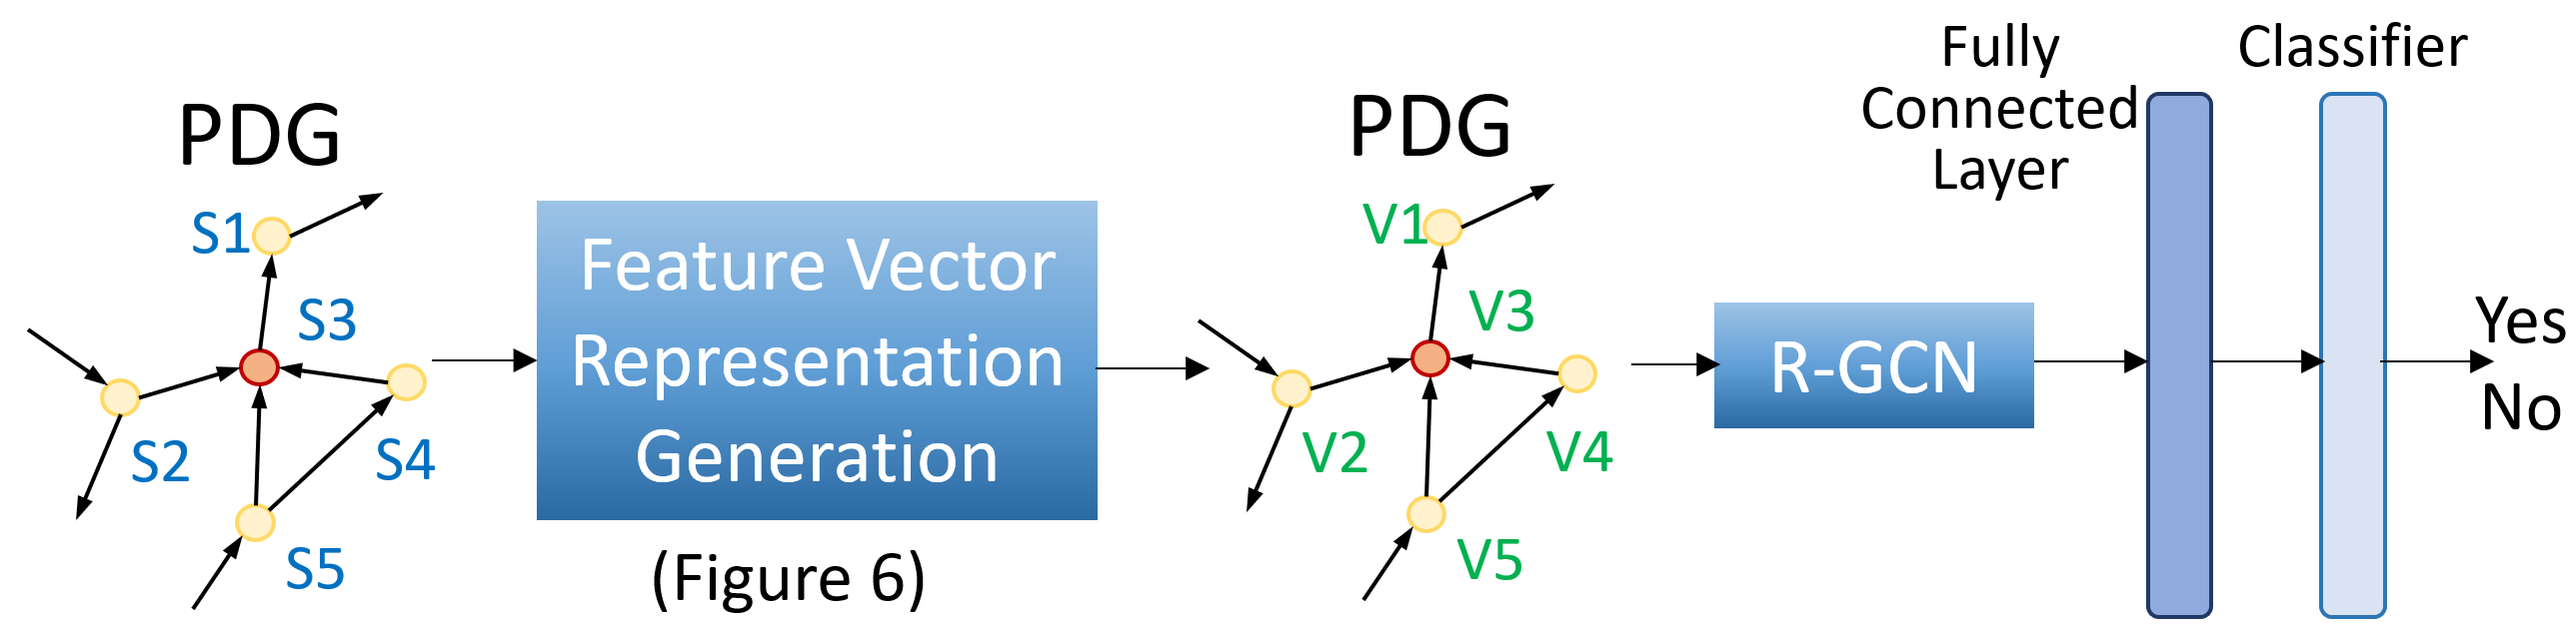
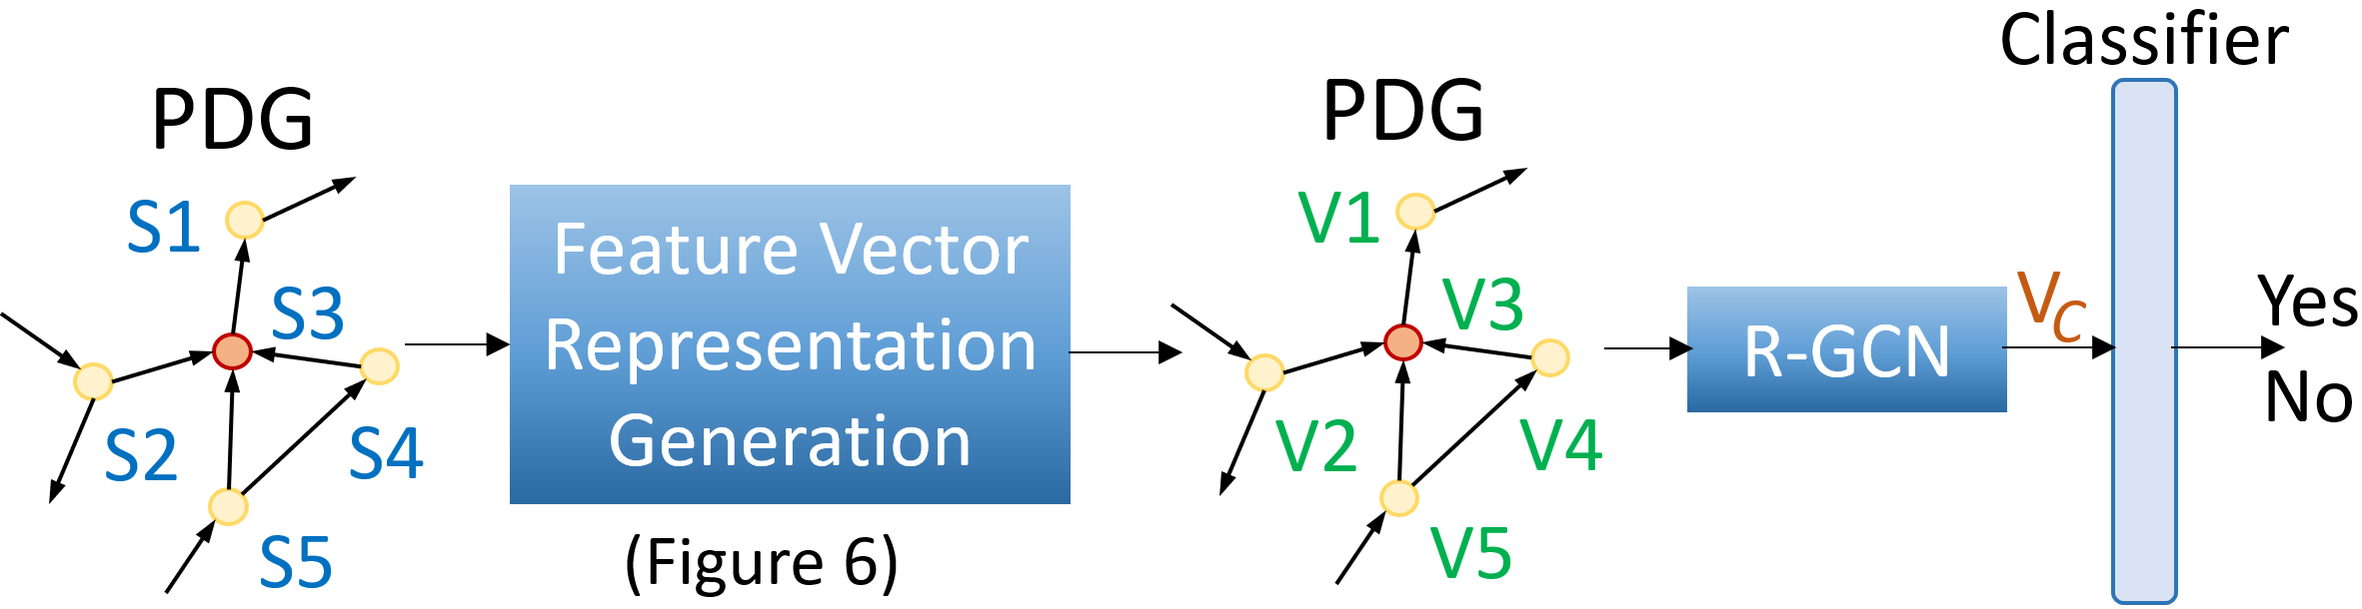
temp

diff --git a/block-classification.tex b/block-classification.tex
@@ -86,16 +86,15 @@ Figure~\ref{fig:feature}.
 %feature vector $F_{S27}$ for $S27$, using the process explained in
 %Figure~\ref{fig:feature}.
 From the representation vectors for all statements (nodes), the R-GCN
-model will produce the outputs at the output layer. We connect
-all of its outputs to a fully connected layer to transform the matrix
-into a vector $V_C$ to represent the given code $C$. We then perform
-classification by using two hidden layers and a softmax function on
-$V_C$ to decide if a \code{try-catch} block is needed for
-$C$ or not.
+model will produce the outputs at the output layer. The R-GCN model
+connects all of its outputs to a fully connected layer to transform
+the matrix into a vector $V_C$ to represent the given code $C$. We
+then perform classification by using a softmax function on $V_C$ to
+decide if a \code{try-catch} block is needed for $C$ or not.
 
 \begin{figure}[t]
 	\centering
-	\includegraphics[width=3.4in]{xblock-2.png}
+	\includegraphics[width=3.4in]{xblock.png}
   %      \vspace{-0.1in}
 	\caption{\code{Try-catch} Block Checker with R-GCN ({\xblock})}
 	\label{fig:gcn}	
